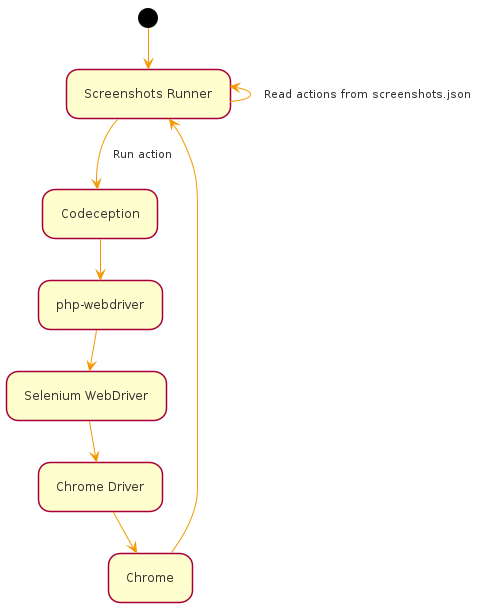
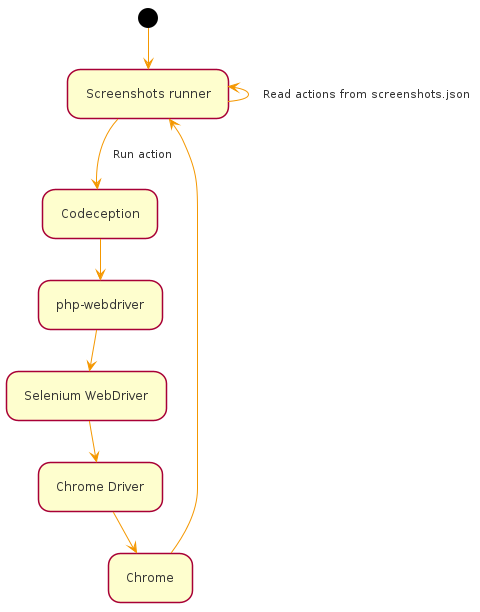
[DOCS] Rename to "screenshots runner" and "screenshots manager"
Both names are not unique, but generic names and should therefore
be lowercase.

diff --git a/packages/screenshots/Resources/Private/Templates/ScreenshotsManager/Index.html b/packages/screenshots/Resources/Private/Templates/ScreenshotsManager/Index.html
@@ -10,7 +10,7 @@
                 </div>
                 <div class="card-header-body">
                     <h1 class="card-title">Make</h1>
-                    <span class="card-subtitle">Screenshots Runner</span>
+                    <span class="card-subtitle">Screenshots runner</span>
                 </div>
             </div>
             <div class="card-content">
@@ -33,7 +33,7 @@
                 </div>
                 <div class="card-header-body">
                     <h1 class="card-title">Compare &amp; Copy</h1>
-                    <span class="card-subtitle">Screenshots Manager</span>
+                    <span class="card-subtitle">Screenshots manager</span>
                 </div>
             </div>
             <div class="card-content">

diff --git a/README.rst b/README.rst
@@ -9,14 +9,14 @@ This project provides a way to take screenshots of the TYPO3 CMS in a scripted w
 
 First, the user browses a TYPO3 instance to take notes of a click path for a new screenshot.
 Next, the click path gets forged to a ``screenshots.json`` file.
-Next, all ``screenshots.json`` files get executed by the *Screenshots Runner* which produces the screenshots.
-Last, the actual screenshots get compared to the original screenshots in the *Screenshots Manager* and copied over if
+Next, all ``screenshots.json`` files get executed by the screenshots runner which produces the screenshots.
+Last, the actual screenshots get compared to the original screenshots in the screenshots manager and copied over if
 approved by the user.
 
-Activity of the Screenshots Runner:
+Activity of the screenshots runner:
 
 .. image:: docs/screenshots_runner_diagram.png
-   :alt: Activity diagram of the Screenshots Runner
+   :alt: Activity diagram of the screenshots runner
 
 .. contents:: Table of Contents
 
@@ -90,12 +90,12 @@ Remove the TYPO3 instance by
    ddev delete -yO
 
 
-Screenshots Runner
+Screenshots runner
 ==================
 
 The runner scans the sub folders of ``public/t3docs``, processes the ``public/t3docs/*/screenshots.json`` files and
-creates the screenshots in ``public/t3docs-generated/actual/*/`` where they get further processed by the Screenshots
-Manager.
+creates the screenshots in ``public/t3docs-generated/actual/*/`` where they get further processed by the screenshots
+manager.
 
 Folders in ``public/t3docs``
 ----------------------------
@@ -392,11 +392,11 @@ A custom identifier can be assigned to a block of actions and then used to execu
    ddev make-screenshots -s Styleguide -a first-page
 
 
-Screenshots Manager
+Screenshots manager
 ===================
 
 To manage the created screenshots the TYPO3 instance backend provides a module "Screenshots" which can be found in the
-module menu at Admin Tools > Screenshots. It provides three functions: Starting the Screenshots Runner, comparing actual
+module menu at Admin Tools > Screenshots. It provides three functions: Starting the screenshots runner, comparing actual
 and original screenshots and copying screenshots from the actual path to the original path.
 
 Welcome
@@ -404,7 +404,7 @@ Welcome
 
 On the welcome page you can select the action you want to perform:
 
-- create screenshots by processing the available ``screenshots.json`` through the Screenshots Runner or
+- create screenshots by processing the available ``screenshots.json`` through the screenshots runner or
 - compare new screenshots with the originals and copy the new screenshots
 
 .. image:: docs/screenshots_manager_welcome.png
@@ -412,7 +412,7 @@ On the welcome page you can select the action you want to perform:
 Make screenshots
 ----------------
 
-On this page you automatically start the Screenshots Runner, which starts a subprocess on the command line.
+On this page you automatically start the screenshots runner, which starts a subprocess on the command line.
 The result is displayed on this page as soon as the runner is finished - which may take a while.
 
 .. image:: docs/screenshots_manager_make.png
